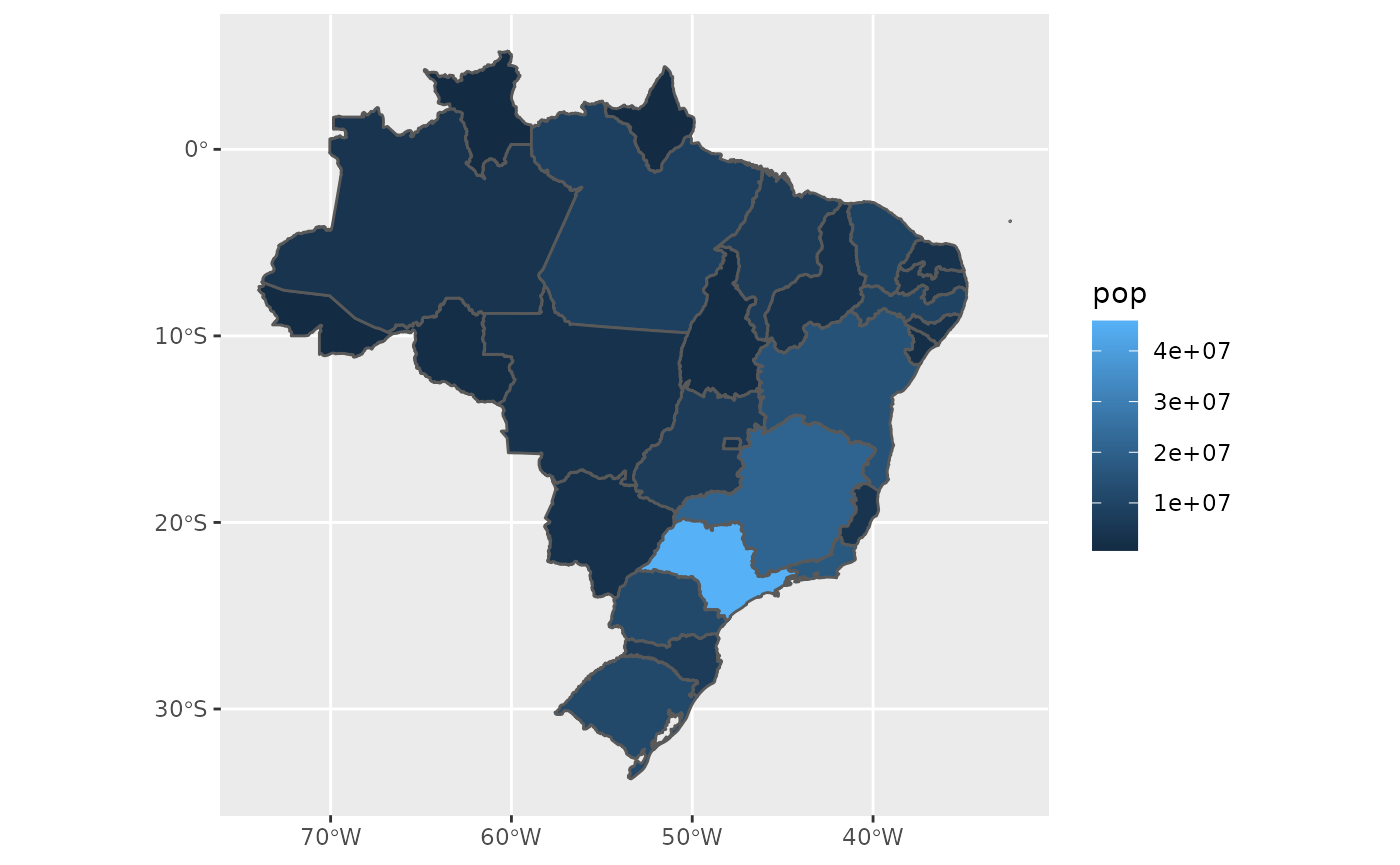
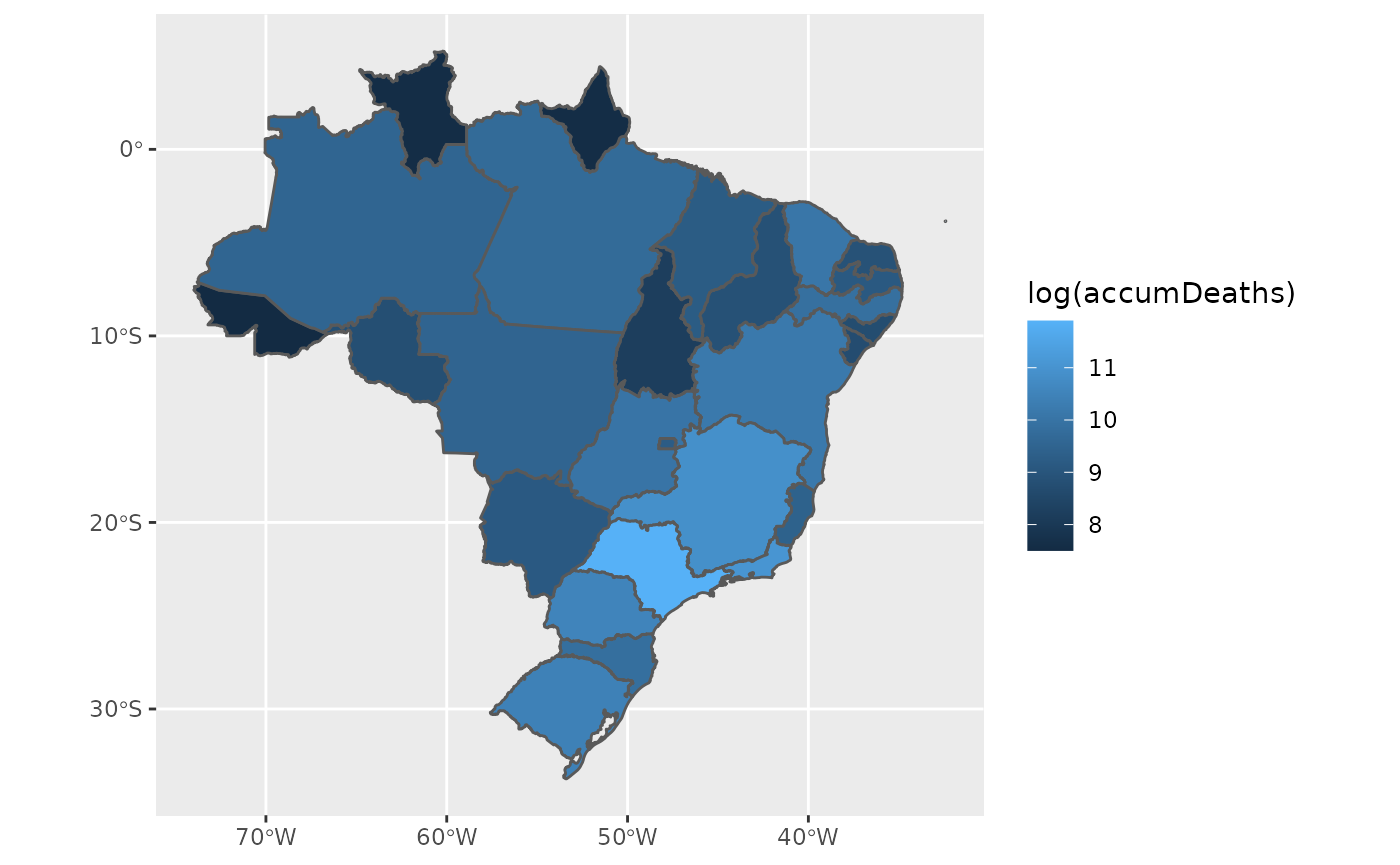
implementaion of add_geo() function

diff --git a/docs/articles/maps.html b/docs/articles/maps.html
@@ -5,13 +5,13 @@
 <meta charset="utf-8">
 <meta http-equiv="X-UA-Compatible" content="IE=edge">
 <meta name="viewport" content="width=device-width, initial-scale=1.0">
-<title>Drawing maps with covid19br package • covid19br</title>
+<title>Drawing maps with the covid19br package • covid19br</title>
 <!-- jquery --><script src="https://cdnjs.cloudflare.com/ajax/libs/jquery/3.4.1/jquery.min.js" integrity="sha256-CSXorXvZcTkaix6Yvo6HppcZGetbYMGWSFlBw8HfCJo=" crossorigin="anonymous"></script><!-- Bootstrap --><link rel="stylesheet" href="https://cdnjs.cloudflare.com/ajax/libs/twitter-bootstrap/3.4.1/css/bootstrap.min.css" integrity="sha256-bZLfwXAP04zRMK2BjiO8iu9pf4FbLqX6zitd+tIvLhE=" crossorigin="anonymous">
 <script src="https://cdnjs.cloudflare.com/ajax/libs/twitter-bootstrap/3.4.1/js/bootstrap.min.js" integrity="sha256-nuL8/2cJ5NDSSwnKD8VqreErSWHtnEP9E7AySL+1ev4=" crossorigin="anonymous"></script><!-- bootstrap-toc --><link rel="stylesheet" href="../bootstrap-toc.css">
 <script src="../bootstrap-toc.js"></script><!-- Font Awesome icons --><link rel="stylesheet" href="https://cdnjs.cloudflare.com/ajax/libs/font-awesome/5.12.1/css/all.min.css" integrity="sha256-mmgLkCYLUQbXn0B1SRqzHar6dCnv9oZFPEC1g1cwlkk=" crossorigin="anonymous">
 <link rel="stylesheet" href="https://cdnjs.cloudflare.com/ajax/libs/font-awesome/5.12.1/css/v4-shims.min.css" integrity="sha256-wZjR52fzng1pJHwx4aV2AO3yyTOXrcDW7jBpJtTwVxw=" crossorigin="anonymous">
 <!-- clipboard.js --><script src="https://cdnjs.cloudflare.com/ajax/libs/clipboard.js/2.0.6/clipboard.min.js" integrity="sha256-inc5kl9MA1hkeYUt+EC3BhlIgyp/2jDIyBLS6k3UxPI=" crossorigin="anonymous"></script><!-- headroom.js --><script src="https://cdnjs.cloudflare.com/ajax/libs/headroom/0.11.0/headroom.min.js" integrity="sha256-AsUX4SJE1+yuDu5+mAVzJbuYNPHj/WroHuZ8Ir/CkE0=" crossorigin="anonymous"></script><script src="https://cdnjs.cloudflare.com/ajax/libs/headroom/0.11.0/jQuery.headroom.min.js" integrity="sha256-ZX/yNShbjqsohH1k95liqY9Gd8uOiE1S4vZc+9KQ1K4=" crossorigin="anonymous"></script><!-- pkgdown --><link href="../pkgdown.css" rel="stylesheet">
-<script src="../pkgdown.js"></script><meta property="og:title" content="Drawing maps with covid19br package">
+<script src="../pkgdown.js"></script><meta property="og:title" content="Drawing maps with the covid19br package">
 <meta property="og:description" content="covid19br">
 <!-- mathjax --><script src="https://cdnjs.cloudflare.com/ajax/libs/mathjax/2.7.5/MathJax.js" integrity="sha256-nvJJv9wWKEm88qvoQl9ekL2J+k/RWIsaSScxxlsrv8k=" crossorigin="anonymous"></script><script src="https://cdnjs.cloudflare.com/ajax/libs/mathjax/2.7.5/config/TeX-AMS-MML_HTMLorMML.js" integrity="sha256-84DKXVJXs0/F8OTMzX4UR909+jtl4G7SPypPavF+GfA=" crossorigin="anonymous"></script><!--[if lt IE 9]>
 <script src="https://oss.maxcdn.com/html5shiv/3.7.3/html5shiv.min.js"></script>
@@ -57,7 +57,7 @@
   </a>
   <ul class="dropdown-menu" role="menu">
 <li>
-      <a href="../articles/maps.html">Drawing maps with covid19br package</a>
+      <a href="../articles/maps.html">Drawing maps with the covid19br package</a>
     </li>
   </ul>
 </li>
@@ -85,7 +85,7 @@
       </header><script src="maps_files/header-attrs-2.10/header-attrs.js"></script><div class="row">
   <div class="col-md-9 contents">
     <div class="page-header toc-ignore">
-      <h1 data-toc-skip>Drawing maps with covid19br package</h1>
+      <h1 data-toc-skip>Drawing maps with the covid19br package</h1>
             
       
       <small class="dont-index">Source: <a href="https://github.com/fndemarqui/covid19br/blob/master/vignettes/maps.Rmd"><code>vignettes/maps.Rmd</code></a></small>
@@ -99,24 +99,22 @@
 <code class="sourceCode R">
 
 
-<span class="kw"><a href="https://rdrr.io/r/base/library.html">library</a></span><span class="op">(</span><span class="va"><a href="https://github.com/fndemarqui/covid19br">covid19br</a></span><span class="op">)</span>
+<span class="kw"><a href="https://rdrr.io/r/base/library.html">library</a></span><span class="op">(</span><span class="va"><a href="https://fndemarqui.github.io/covid19br/">covid19br</a></span><span class="op">)</span>
 <span class="kw"><a href="https://rdrr.io/r/base/library.html">library</a></span><span class="op">(</span><span class="va"><a href="https://tidyverse.tidyverse.org">tidyverse</a></span><span class="op">)</span>
 <span class="kw"><a href="https://rdrr.io/r/base/library.html">library</a></span><span class="op">(</span><span class="va"><a href="https://r-spatial.github.io/sf/">sf</a></span><span class="op">)</span>
 
-<span class="va">states</span> <span class="op">&lt;-</span> <span class="fu"><a href="../reference/downloadCovid19.html">downloadCovid19</a></span><span class="op">(</span><span class="st">"states"</span><span class="op">)</span>
-
-<span class="va">states</span>  <span class="op">&lt;-</span> <span class="va">states</span> <span class="op">%&gt;%</span>
+<span class="va">states</span> <span class="op">&lt;-</span> <span class="fu"><a href="../reference/downloadCovid19.html">downloadCovid19</a></span><span class="op">(</span><span class="st">"states"</span><span class="op">)</span> <span class="op">%&gt;%</span>
   <span class="fu"><a href="https://rdrr.io/r/stats/filter.html">filter</a></span><span class="op">(</span><span class="va">date</span> <span class="op">==</span> <span class="fu"><a href="https://rdrr.io/r/base/Extremes.html">max</a></span><span class="op">(</span><span class="va">date</span><span class="op">)</span><span class="op">)</span> <span class="op">%&gt;%</span>
-  <span class="fu">left_join</span><span class="op">(</span><span class="va">ibgeStates</span>, by <span class="op">=</span> <span class="fu"><a href="https://rdrr.io/r/base/c.html">c</a></span><span class="op">(</span><span class="st">"state_code"</span>, <span class="st">"state"</span>, <span class="st">"pop"</span>, <span class="st">"region"</span><span class="op">)</span><span class="op">)</span> <span class="op">%&gt;%</span>
-  <span class="fu"><a href="https://r-spatial.github.io/sf/reference/st_as_sf.html">st_as_sf</a></span><span class="op">(</span><span class="op">)</span>
+  <span class="fu"><a href="../reference/add_geo.html">add_geo</a></span><span class="op">(</span><span class="op">)</span>
+
 
 <span class="fu">ggplot</span><span class="op">(</span><span class="va">states</span><span class="op">)</span> <span class="op">+</span>
-  <span class="fu">geom_sf</span><span class="op">(</span><span class="fu">aes</span><span class="op">(</span>fill <span class="op">=</span> <span class="va">pop</span><span class="op">)</span><span class="op">)</span> </code></pre></div>
+  <span class="fu">geom_sf</span><span class="op">(</span><span class="fu">aes</span><span class="op">(</span>fill <span class="op">=</span> <span class="fu"><a href="https://rdrr.io/r/base/Log.html">log</a></span><span class="op">(</span><span class="va">accumDeaths</span><span class="op">)</span><span class="op">)</span><span class="op">)</span> </code></pre></div>
 <p><img src="maps_files/figure-html/setup-1.png" width="700"></p>
 <div class="sourceCode" id="cb2"><pre class="downlit sourceCode r">
 <code class="sourceCode R">
 <span class="fu">ggplot</span><span class="op">(</span><span class="va">states</span><span class="op">)</span> <span class="op">+</span>
-  <span class="fu">geom_sf</span><span class="op">(</span><span class="fu">aes</span><span class="op">(</span>fill <span class="op">=</span> <span class="va">pop</span><span class="op">)</span><span class="op">)</span> <span class="op">+</span>
+  <span class="fu">geom_sf</span><span class="op">(</span><span class="fu">aes</span><span class="op">(</span>fill <span class="op">=</span> <span class="fu"><a href="https://rdrr.io/r/base/Log.html">log</a></span><span class="op">(</span><span class="va">accumDeaths</span><span class="op">)</span><span class="op">)</span><span class="op">)</span> <span class="op">+</span>
   <span class="fu">scale_fill_gradient2</span><span class="op">(</span>low <span class="op">=</span> <span class="st">"red"</span>, high <span class="op">=</span> <span class="st">"red"</span>, na.value <span class="op">=</span> <span class="cn">NA</span><span class="op">)</span></code></pre></div>
 <p><img src="maps_files/figure-html/setup-2.png" width="700"></p>
   </div>

diff --git a/docs/reference/add_geo.html b/docs/reference/add_geo.html
@@ -6,7 +6,7 @@
 <meta http-equiv="X-UA-Compatible" content="IE=edge">
 <meta name="viewport" content="width=device-width, initial-scale=1.0">
 
-<title>City-level georeferenced data — ibgeCities • covid19br</title>
+<title>Addition to Georeferenced data — add_geo • covid19br</title>
 
 
 <!-- jquery -->
@@ -39,8 +39,8 @@
 
 
 
-<meta property="og:title" content="City-level georeferenced data — ibgeCities" />
-<meta property="og:description" content="Data set obtaind from the Instituto Brasileiro de Geografia e Estatística (IBGE) with data on the Brazilian population and geographical information on city level." />
+<meta property="og:title" content="Addition to Georeferenced data — add_geo" />
+<meta property="og:description" content="Addition to Georeferenced data" />
 
 
 
@@ -126,42 +126,33 @@
 <div class="row">
   <div class="col-md-9 contents">
     <div class="page-header">
-    <h1>City-level georeferenced data</h1>
-    <small class="dont-index">Source: <a href='https://github.com/fndemarqui/covid19br/blob/master/R/data_doc.R'><code>R/data_doc.R</code></a></small>
-    <div class="hidden name"><code>ibgeCities.Rd</code></div>
+    <h1>Addition to Georeferenced data</h1>
+    <small class="dont-index">Source: <a href='https://github.com/fndemarqui/covid19br/blob/master/R/utils.R'><code>R/utils.R</code></a></small>
+    <div class="hidden name"><code>add_geo.Rd</code></div>
     </div>
 
     <div class="ref-description">
-    <p>Data set obtaind from the Instituto Brasileiro de Geografia e Estatística (IBGE) with data on the Brazilian population and geographical information on city level.</p>
+    <p>Addition to Georeferenced data</p>
     </div>
 
+    <pre class="usage"><span class='fu'>add_geo</span><span class='op'>(</span><span class='va'>data</span>, <span class='va'>...</span><span class='op'>)</span></pre>
 
+    <h2 class="hasAnchor" id="arguments"><a class="anchor" href="#arguments"></a>Arguments</h2>
+    <table class="ref-arguments">
+    <colgroup><col class="name" /><col class="desc" /></colgroup>
+    <tr>
+      <th>data</th>
+      <td><p>data set downloaded from covid19br::downloadCovid19() function.</p></td>
+    </tr>
+    <tr>
+      <th>...</th>
+      <td><p>further arguments passed to other methods.</p></td>
+    </tr>
+    </table>
 
-    <h2 class="hasAnchor" id="format"><a class="anchor" href="#format"></a>Format</h2>
+    <h2 class="hasAnchor" id="value"><a class="anchor" href="#value"></a>Value</h2>
 
-    <p>A data frame with 5570 rows and 10 variables:</p><ul>
-<li><p>region: regions' names</p></li>
-<li><p>state: states' names.</p></li>
-<li><p>city: cities' names.</p></li>
-<li><p>pop: estimated population in 2019.</p></li>
-<li><p>region_code: numerical code attributed to regions</p></li>
-<li><p>state_code: numerical code attributed to states</p></li>
-<li><p>mesoregion_code: numerical code attributed to mesoregions</p></li>
-<li><p>microregion_code: numerical code attributed to microregions</p></li>
-<li><p>city_code: numerical code attributed to cities</p></li>
-<li><p>geometry: georeferenced data needed to plot maps.</p></li>
-</ul>
-
-    <h2 class="hasAnchor" id="source"><a class="anchor" href="#source"></a>Source</h2>
-
-    <p>Instituto Brasileiro de Geografia e Estatística (IBGE):</p><ul>
-<li><p>Shapefiles: <a href='https://www.ibge.gov.br/geociencias/downloads-geociencias.html'>https://www.ibge.gov.br/geociencias/downloads-geociencias.html</a></p></li>
-<li><p>Population: <a href='https://www.ibge.gov.br/estatisticas/sociais/populacao/9103-estimativas-de-populacao.html?=&amp;t=resultados'>https://www.ibge.gov.br/estatisticas/sociais/populacao/9103-estimativas-de-populacao.html?=&amp;t=resultados</a></p></li>
-</ul>
-
-    <h2 class="hasAnchor" id="author"><a class="anchor" href="#author"></a>Author</h2>
-
-    <p>Fabio N. Demarqui <a href='mailto:fndemarqui@est.ufmg.br'>fndemarqui@est.ufmg.br</a></p>
+    <p>the data set with the added georeferenced data.</p>
 
   </div>
   <div class="col-md-3 hidden-xs hidden-sm" id="pkgdown-sidebar">

diff --git a/docs/articles/covid19br.html b/docs/articles/covid19br.html
@@ -57,7 +57,7 @@
   </a>
   <ul class="dropdown-menu" role="menu">
 <li>
-      <a href="../articles/maps.html">Drawing maps with covid19br package</a>
+      <a href="../articles/maps.html">Drawing maps with the covid19br package</a>
     </li>
   </ul>
 </li>
@@ -116,6 +116,16 @@
 <h1 class="hasAnchor">
 <a href="#getting-started-with-covid19br-r-package" class="anchor"></a>Getting started with covid19br R package</h1>
 <p>We will get started by showing how to use the package to load into R data sets of the COVID-19 pandemic by downloading the COVID-19 data set from the official Brazilian repository <a href="https://covid.saude.gov.br">https://covid.saude.gov.br</a></p>
+<div class="sourceCode" id="cb1"><pre class="downlit sourceCode r">
+<code class="sourceCode R"><span class="kw"><a href="https://rdrr.io/r/base/library.html">library</a></span><span class="op">(</span><span class="va"><a href="https://fndemarqui.github.io/covid19br/">covid19br</a></span><span class="op">)</span>
+<span class="kw"><a href="https://rdrr.io/r/base/library.html">library</a></span><span class="op">(</span><span class="va"><a href="https://tidyverse.tidyverse.org">tidyverse</a></span><span class="op">)</span>
+
+<span class="va">brazil</span> <span class="op">&lt;-</span> <span class="fu"><a href="../reference/downloadCovid19.html">downloadCovid19</a></span><span class="op">(</span><span class="st">"brazil"</span><span class="op">)</span>
+
+<span class="fu">ggplot</span><span class="op">(</span><span class="va">brazil</span>, <span class="fu">aes</span><span class="op">(</span>x <span class="op">=</span> <span class="va">date</span>, y <span class="op">=</span> <span class="va">accumDeaths</span><span class="op">)</span><span class="op">)</span> <span class="op">+</span>
+  <span class="fu">geom_point</span><span class="op">(</span><span class="op">)</span> <span class="op">+</span>
+  <span class="fu">geom_path</span><span class="op">(</span><span class="op">)</span></code></pre></div>
+<p><img src="covid19br_files/figure-html/unnamed-chunk-2-1.png" width="700"></p>
 </div>
   </div>
 

diff --git a/docs/index.html b/docs/index.html
@@ -57,7 +57,7 @@
   </a>
   <ul class="dropdown-menu" role="menu">
 <li>
-      <a href="articles/maps.html">Drawing maps with covid19br package</a>
+      <a href="articles/maps.html">Drawing maps with the covid19br package</a>
     </li>
   </ul>
 </li>
@@ -106,7 +106,7 @@
 <a href="#example" class="anchor"></a>Example</h2>
 <p>This is a basic example which shows you how to solve a common problem:</p>
 <div class="sourceCode" id="cb3"><pre class="downlit sourceCode r">
-<code class="sourceCode R"><span class="kw"><a href="https://rdrr.io/r/base/library.html">library</a></span><span class="op">(</span><span class="va"><a href="https://github.com/fndemarqui/covid19br">covid19br</a></span><span class="op">)</span>
+<code class="sourceCode R"><span class="kw"><a href="https://rdrr.io/r/base/library.html">library</a></span><span class="op">(</span><span class="va"><a href="https://fndemarqui.github.io/covid19br/">covid19br</a></span><span class="op">)</span>
 <span class="kw"><a href="https://rdrr.io/r/base/library.html">library</a></span><span class="op">(</span><span class="va"><a href="https://tidyverse.tidyverse.org">tidyverse</a></span><span class="op">)</span>
 
 <span class="va">brazil</span> <span class="op">&lt;-</span> <span class="fu"><a href="reference/downloadCovid19.html">downloadCovid19</a></span><span class="op">(</span><span class="st">"brazil"</span><span class="op">)</span>

diff --git a/docs/news/index.html b/docs/news/index.html
@@ -97,7 +97,7 @@
   </a>
   <ul class="dropdown-menu" role="menu">
     <li>
-      <a href="../articles/maps.html">Drawing maps with covid19br package</a>
+      <a href="../articles/maps.html">Drawing maps with the covid19br package</a>
     </li>
   </ul>
 </li>
@@ -129,17 +129,17 @@
       <small>Source: <a href='https://github.com/fndemarqui/covid19br/blob/master/NEWS.md'><code>NEWS.md</code></a></small>
     </div>
 
-    <div id="covid19br-011-november-24-2020" class="section level1">
+    <div id="covid19br-011" class="section level1">
 <h1 class="page-header" data-toc-text="0.1.1">
-<a href="#covid19br-011-november-24-2020" class="anchor"></a>covid19br 0.1.1 (November 24 2020)<small> 2020-11-24 </small>
+<a href="#covid19br-011" class="anchor"></a>covid19br 0.1.1<small> 2020-11-24 </small>
 </h1>
 <ul>
 <li>Inclusion of an informative message in the downloadCovid19 function to notify the user when the data is temporarily unavailable.</li>
 </ul>
 </div>
-    <div id="covid19br-012-september-5-2021" class="section level1">
+    <div id="covid19br-012" class="section level1">
 <h1 class="page-header" data-toc-text="0.1.2">
-<a href="#covid19br-012-september-5-2021" class="anchor"></a>covid19br 0.1.2 (September 5 2021)<small> Unreleased </small>
+<a href="#covid19br-012" class="anchor"></a>covid19br 0.1.2<small> Unreleased </small>
 </h1>
 <ul>
 <li>Addition of georeferenced data:

diff --git a/docs/reference/downloadCovid19.html b/docs/reference/downloadCovid19.html
@@ -98,7 +98,7 @@
   </a>
   <ul class="dropdown-menu" role="menu">
     <li>
-      <a href="../articles/maps.html">Drawing maps with covid19br package</a>
+      <a href="../articles/maps.html">Drawing maps with the covid19br package</a>
     </li>
   </ul>
 </li>
@@ -155,7 +155,7 @@
 
     <h2 class="hasAnchor" id="examples"><a class="anchor" href="#examples"></a>Examples</h2>
     <pre class="examples"><div class='input'><span class='co'># \donttest{</span>
-<span class='kw'><a href='https://rdrr.io/r/base/library.html'>library</a></span><span class='op'>(</span><span class='va'><a href='https://github.com/fndemarqui/covid19br'>covid19br</a></span><span class='op'>)</span>
+<span class='kw'><a href='https://rdrr.io/r/base/library.html'>library</a></span><span class='op'>(</span><span class='va'><a href='https://fndemarqui.github.io/covid19br/'>covid19br</a></span><span class='op'>)</span>
 
 <span class='co'># Downloading Brazilian COVID-19 data:</span>
 <span class='va'>brazil</span> <span class='op'>&lt;-</span> <span class='fu'>downloadCovid19</span><span class='op'>(</span>level <span class='op'>=</span> <span class='st'>"brazil"</span><span class='op'>)</span>

diff --git a/docs/articles/index.html b/docs/articles/index.html
@@ -97,7 +97,7 @@
   </a>
   <ul class="dropdown-menu" role="menu">
     <li>
-      <a href="../articles/maps.html">Drawing maps with covid19br package</a>
+      <a href="../articles/maps.html">Drawing maps with the covid19br package</a>
     </li>
   </ul>
 </li>
@@ -135,7 +135,7 @@
       <dl>
         <dt><a href="covid19br.html">Introduction to the covid19br package</a></dt>
         <dd></dt>
-        <dt><a href="maps.html">Drawing maps with covid19br package</a></dt>
+        <dt><a href="maps.html">Drawing maps with the covid19br package</a></dt>
         <dd></dt>
       </dl>
     </div>

diff --git a/docs/reference/index.html b/docs/reference/index.html
@@ -97,7 +97,7 @@
   </a>
   <ul class="dropdown-menu" role="menu">
     <li>
-      <a href="../articles/maps.html">Drawing maps with covid19br package</a>
+      <a href="../articles/maps.html">Drawing maps with the covid19br package</a>
     </li>
   </ul>
 </li>
@@ -149,6 +149,12 @@
       
       
       <tr>
+        
+        <td>
+          <p><code><a href="add_geo.html">add_geo()</a></code> </p>
+        </td>
+        <td><p>Addition to Georeferenced data</p></td>
+      </tr><tr>
         
         <td>
           <p><code><a href="covid19br.html">covid19br</a></code> </p>

diff --git a/docs/reference/covid19br.html b/docs/reference/covid19br.html
@@ -98,7 +98,7 @@
   </a>
   <ul class="dropdown-menu" role="menu">
     <li>
-      <a href="../articles/maps.html">Drawing maps with covid19br package</a>
+      <a href="../articles/maps.html">Drawing maps with the covid19br package</a>
     </li>
   </ul>
 </li>

diff --git a/docs/reference/ibgeRegions.html b/docs/reference/ibgeRegions.html
@@ -98,7 +98,7 @@
   </a>
   <ul class="dropdown-menu" role="menu">
     <li>
-      <a href="../articles/maps.html">Drawing maps with covid19br package</a>
+      <a href="../articles/maps.html">Drawing maps with the covid19br package</a>
     </li>
   </ul>
 </li>

diff --git a/docs/reference/ibgeStates.html b/docs/reference/ibgeStates.html
@@ -98,7 +98,7 @@
   </a>
   <ul class="dropdown-menu" role="menu">
     <li>
-      <a href="../articles/maps.html">Drawing maps with covid19br package</a>
+      <a href="../articles/maps.html">Drawing maps with the covid19br package</a>
     </li>
   </ul>
 </li>

diff --git a/docs/reference/mundi.html b/docs/reference/mundi.html
@@ -98,7 +98,7 @@
   </a>
   <ul class="dropdown-menu" role="menu">
     <li>
-      <a href="../articles/maps.html">Drawing maps with covid19br package</a>
+      <a href="../articles/maps.html">Drawing maps with the covid19br package</a>
     </li>
   </ul>
 </li>
